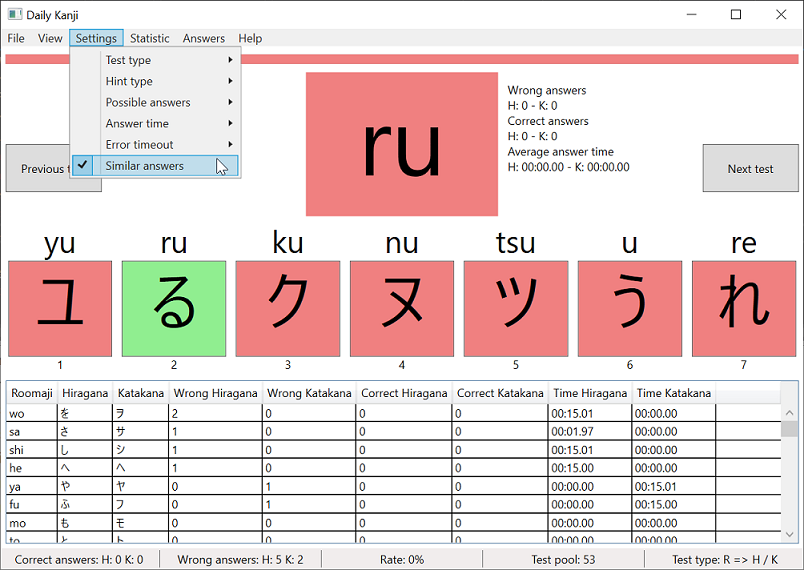
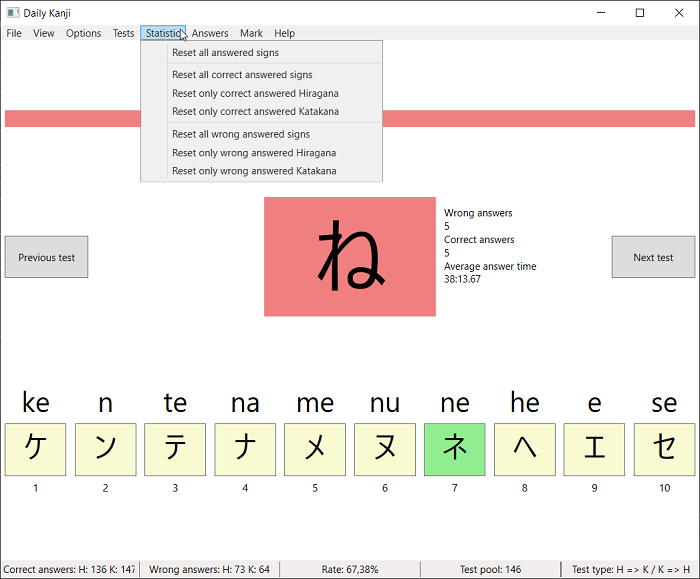
Add menu entries to mark possible wrong entries and update readme and pictures

diff --git a/DailyKanji/Mvvm/View/MainWindow.xaml b/DailyKanji/Mvvm/View/MainWindow.xaml
@@ -546,6 +546,8 @@
 
             <MenuItem x:Name="AnswerMenu" Header="_Answers" />
 
+            <MenuItem x:Name="MarkMenu" Header="_Mark" />
+
             <MenuItem Header="_Help">
 
                 <MenuItem Command="{Binding Path=CommandShowInfoWindow}" Header="_Info" InputGestureText="F1" />

diff --git a/DailyKanji/Mvvm/ViewModel/MainViewModel.cs b/DailyKanji/Mvvm/ViewModel/MainViewModel.cs
@@ -17,7 +17,9 @@ using System.Windows.Media;
 namespace DailyKanji.Mvvm.ViewModel
 {
     // Test
+    // ----
     // Current sign statistics (possible: show wrong count)
+    // Game-pad button calculation
 
     // BUG
     // ---
@@ -25,7 +27,6 @@ namespace DailyKanji.Mvvm.ViewModel
 
     // Version 1.x
     // -----------
-    // TODO: Add possibility to mark and de-mark wrong answers via menu
     // TODO: Make highlight timeout and answer timeout set-able as integer value not via menu entries
     // TODO: Game-pad support (with 10 buttons for 10 answers)
     // TODO: Add test type for all -> "Hiragana, Katakana or Roomaji to Hiragana, Katakana or Roomaji"
@@ -251,12 +252,15 @@ namespace DailyKanji.Mvvm.ViewModel
             => MainWindow?.Dispatcher?.Invoke(() =>
             {
                 MainWindow.AnswerMenu.Items.Clear();
+                MainWindow.MarkMenu.Items.Clear();
 
                 for(byte answerNumber = 0; answerNumber < 10; answerNumber++)
                 {
                     if(answerNumber < BaseModel.MaximumAnswers)
                     {
-                        var answer = BaseModel.PossibleAnswers.ElementAtOrDefault(answerNumber);
+                        var answer           = BaseModel.PossibleAnswers.ElementAtOrDefault(answerNumber);
+                        var answerText       = GetAnswerText(answer);
+                        var inputGestureText = $"{answerNumber + 1}";
 
                         MainWindow.AnswerButtonColumn[answerNumber].Width = new GridLength(1, GridUnitType.Star);
 
@@ -264,18 +268,26 @@ namespace DailyKanji.Mvvm.ViewModel
                         MainWindow.AnswerShortCutTextBlock[answerNumber].Visibility = Visibility.Visible;
                         MainWindow.AnswerHintTextBlock[answerNumber].Visibility     = Visibility.Visible;
 
-                        MainWindow.AnswerTextList[answerNumber].Text          = GetAnswerText(answer);
+                        MainWindow.AnswerTextList[answerNumber].Text          = answerText;
                         MainWindow.AnswerHintTextBlock[answerNumber].Text     = GetAnswerHint(answer);
                         MainWindow.AnswerShortCutTextBlock[answerNumber].Text = BaseModel.ShowAnswerShortcuts
-                                ? $"{answerNumber + 1}"
+                                ? inputGestureText
                                 : string.Empty;
 
                         MainWindow.AnswerMenu.Items.Add(new MenuItem
                         {
                             Command          = new CommandHelper(value => CheckSelectedAnswer(value as TestBaseModel)),
                             CommandParameter = answer,
-                            Header           = GetAnswerText(answer),
-                            InputGestureText = $"{answerNumber + 1}"
+                            Header           = answerText,
+                            InputGestureText = inputGestureText
+                        });
+
+                        MainWindow.MarkMenu.Items.Add(new MenuItem
+                        {
+                            Command          = new CommandHelper(value => HighlightAnswer(value as TestBaseModel)),
+                            CommandParameter = answer,
+                            Header           = answerText,
+                            InputGestureText = $"Shift+{inputGestureText}"
                         });
                     }
                     else
@@ -389,6 +401,7 @@ namespace DailyKanji.Mvvm.ViewModel
                             continue;
                         }
 
+                        // TODO: check if "button + 1" is the correct value
                         CheckSelectedAnswer(BaseModel.PossibleAnswers.ElementAtOrDefault(button + 1));
                     }
                 }
@@ -398,15 +411,13 @@ namespace DailyKanji.Mvvm.ViewModel
         /// <summary>
         /// Highlight a answer (button) with the <see cref="NoneSelectedColor"/>
         /// </summary>
-        /// <param name="answerNumber">The answer number that should be highlighted</param>
-        internal void HighlightAnswer(in byte answerNumber)
+        /// <param name="answer">The answer (button) to highlight</param>
+        internal void HighlightAnswer(in TestBaseModel answer)
         {
             // can't use "in" parameter in anonymous method
-            var answerNumberTemp = answerNumber - 1;
+            var answerTemp = answer;
 
-            MainWindow.Dispatcher.Invoke(() => SetOrRemoveHighlightColorToOneAnswer(BaseModel.PossibleAnswers.ElementAtOrDefault(answerNumberTemp),
-                                                                                    NoneSelectedColor,
-                                                                                    TransparentColor));
+            MainWindow.Dispatcher.Invoke(() => SetOrRemoveHighlightColorToOneAnswer(answerTemp, NoneSelectedColor, TransparentColor));
         }
 
         #endregion Internal Methods

diff --git a/DailyKanjiLogic/Mvvm/Model/MainBaseModel.cs b/DailyKanjiLogic/Mvvm/Model/MainBaseModel.cs
@@ -477,7 +477,7 @@ namespace DailyKanjiLogic.Mvvm.Model
         public Random Randomizer { get; set; }
 
         /// <summary>
-        /// Indicate that the current input (mouse and keyboard) will ignore and no processed
+        /// Indicate that the current input (mouse, keyboard, game-pad and menu) will ignore and no processed
         /// </summary>
         [JsonIgnore]
         public bool IgnoreInput { get; set; }

diff --git a/DailyKanji/Mvvm/ViewModel/MainViewModelCommands.cs b/DailyKanji/Mvvm/ViewModel/MainViewModelCommands.cs
@@ -303,7 +303,7 @@ namespace DailyKanji.Mvvm.ViewModel
                         return;
                     }
 
-                    HighlightAnswer(Convert.ToByte(answerNumber));
+                    HighlightAnswer(BaseModel.PossibleAnswers.ElementAtOrDefault(answerNumber - 1));
                 });
 
         #endregion Commands - Navigation

diff --git a/DailyKanji/Properties/AssemblyInfo.cs b/DailyKanji/Properties/AssemblyInfo.cs
@@ -9,5 +9,5 @@ using System.Windows;
 
 [assembly: ThemeInfo(ResourceDictionaryLocation.None, ResourceDictionaryLocation.SourceAssembly)]
 
-[assembly: AssemblyVersion("0.0.3.0")]
-[assembly: AssemblyFileVersion("0.0.3.0")]
+[assembly: AssemblyVersion("0.0.4.0")]
+[assembly: AssemblyFileVersion("0.0.4.0")]

diff --git a/readme.md b/readme.md
@@ -8,7 +8,7 @@
 
 ## Current status and version
 * Status: in (slow) development
-* Version: 0.0.3.0
+* Version: 0.0.4.0
 
 ## Current features
 * 9 Test types
@@ -18,10 +18,10 @@
 * 6 Kana types
   * Gojuuon, Gojuuon with dakuten, Gojuuon with handakuten
   * Yooon, Yooon with dakuten, Yooon with handakuten
-* Test can be answered via left mouse click, number key, menu entry or gamepad buttons
+* Test can be answered via mouse left-click, number key, menu entry or gamepad buttons
 * Switch to previous test or next test
 * Running answer timer, when time is over the test is automatically answered wrong
-* Mark possible wrong answers (via mouse right-click or shift + number)
+* Mark possible wrong answers via mouse right-click, shift + number key or menu entry
 * Highlight wrong and correct answers, when answer was wrong and/or correct
 * Show hint of all possible answers, when answer was wrong (can be hide and change via menu)
 * Wrong answered tests will be ask more often
@@ -30,7 +30,7 @@
 * Count right and wrong answers and answer times (separates counter for each Hiragana and Katakana)
 * Separate window for statistics, statistics can individual reset via menu
 
-## Pictures (under Windows 10) - outdated
+## Pictures (under Windows 10) - Version 0.0.4.0
 ![Daily Kanji 1](Documentation/Pictures/DailyKanji1.png)
 ![Daily Kanji 2](Documentation/Pictures/DailyKanji2.png)
 
@@ -46,7 +46,7 @@ Because we switch to .NET Standard 2.1 and .NET Core 3.0 .
 see [Roadmap](Documentation/Roadmap.md)
 
 ## Requirements for debug, test and contributing
-* [Visual Studio 2017](https://visualstudio.microsoft.com/en/downloads/), [Visual Studio 2019 Preview](https://visualstudio.microsoft.com/de/vs/preview/), [Visual Studio Code](https://visualstudio.microsoft.com/en/downloads/), [JetBrains Rider](https://www.jetbrains.com/rider/) or similar
+* [Visual Studio 2019](https://visualstudio.microsoft.com/vs/), [Visual Studio Code](https://code.visualstudio.com/), [JetBrains Rider](https://www.jetbrains.com/rider/) or similar
 * [.Net Framework 4.6](https://www.microsoft.com/en-US/download/details.aspx?id=48137) (include .Net Standard 1.3)
 * C# 8.0
 

diff --git a/Documentation/Roadmap.md b/Documentation/Roadmap.md
@@ -7,7 +7,6 @@
 * Fix correct counting for wrong answers on test type "RoomajiToHiraganaOrKatakana"
 
 ## Version 1.x
-* Add possibility to mark and de-mark wrong answers via menu
 * Make highlight timeout and answer timeout set-able as integer value not via menu entries
 * Game-pad support (with 10 buttons for 10 answers)
 * Add test type for all -> "Hiragana, Katakana or Roomaji to Hiragana, Katakana or Roomaji"
